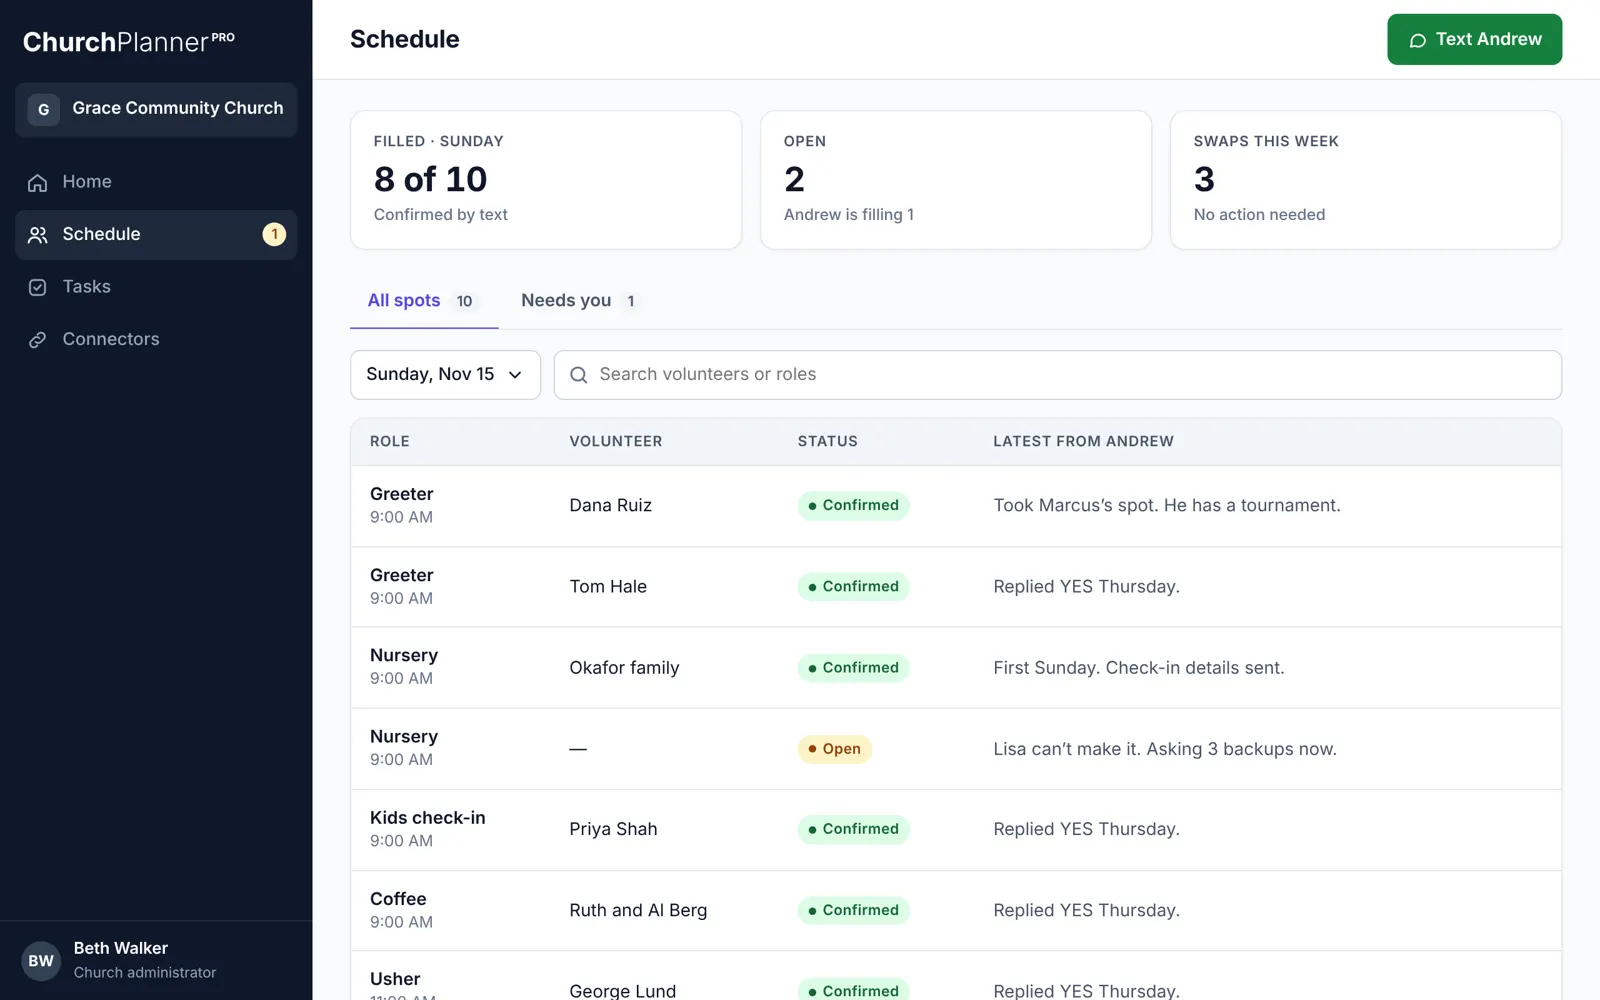
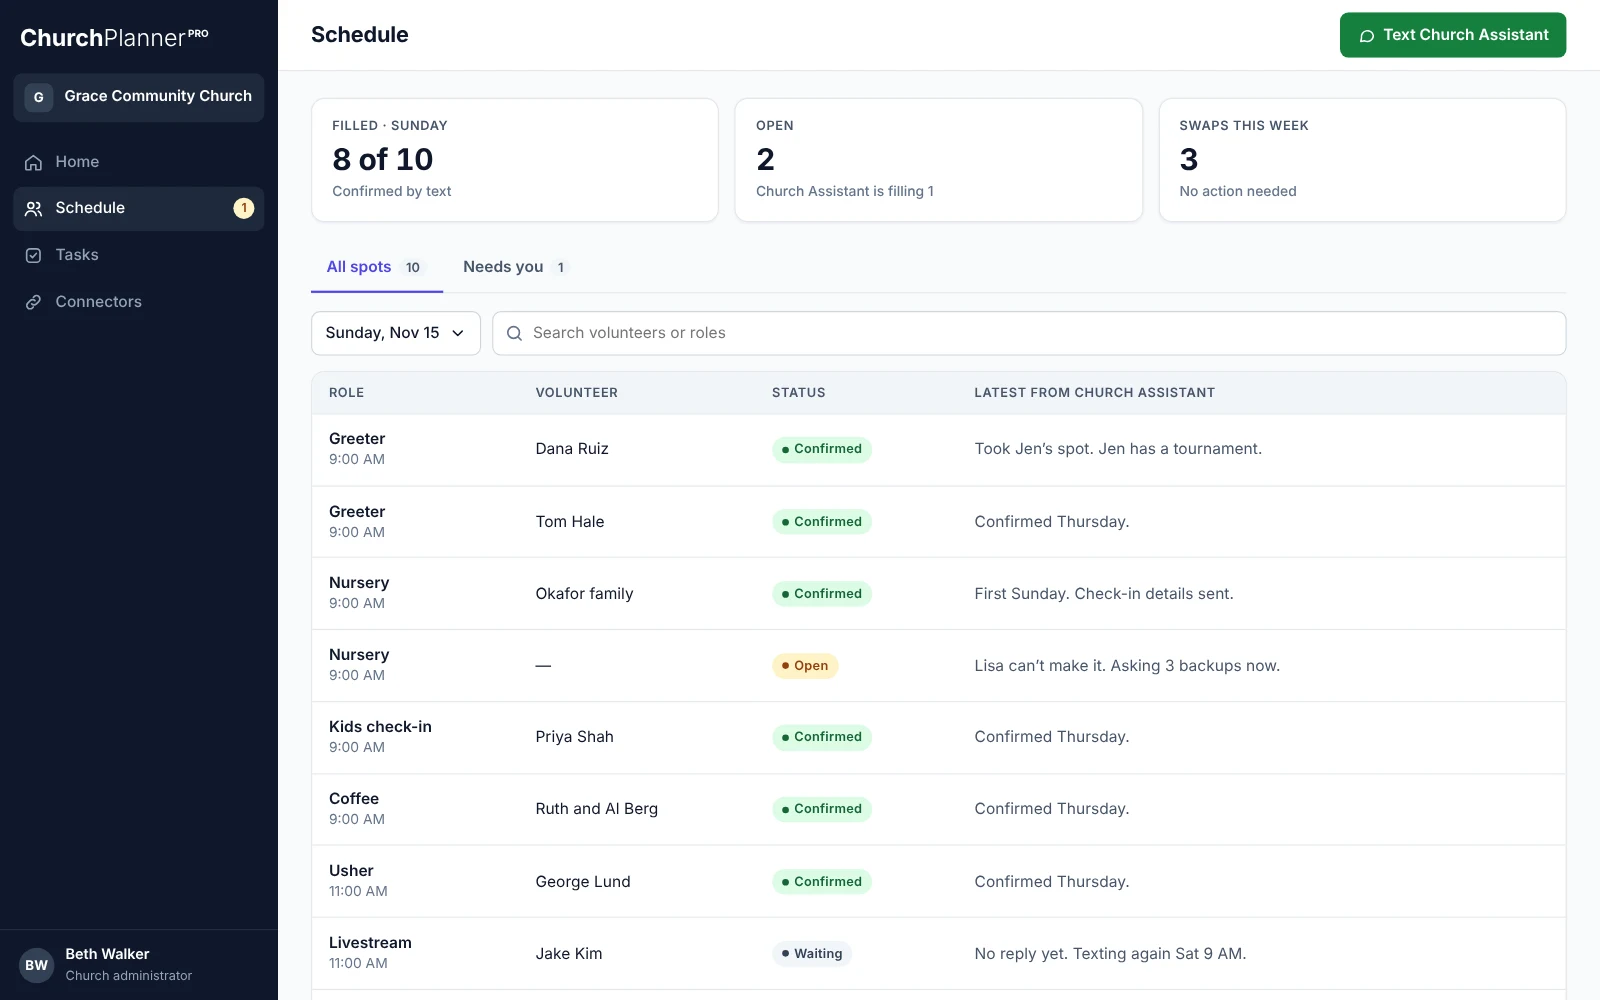
Homepage: 90-day FAQ, phone menu, updated staff view and schedule screenshot
Claude-Session: https://claude.ai/code/session_01Y7bcMnFy9nvMcdngfpeDwi

diff --git a/index.html b/index.html
@@ -12,6 +12,7 @@
 <style>
 body{margin:0;background:#faf7f2}
 a{color:#12603a}a:hover{color:#0d4a2c}
+.drawer:not([hidden]){display:flex !important}
 .cta:hover{background:#0f5231 !important}
 @media (max-width: 860px){
   .hero{grid-template-columns:1fr !important;padding-top:40px !important}
@@ -19,7 +20,11 @@ a{color:#12603a}a:hover{color:#0d4a2c}
   .three{grid-template-columns:1fr !important}
   .six{grid-template-columns:1fr !important}
   .navlinks{display:none !important}
+  .menu-btn{display:inline-flex !important}
   .foot{grid-template-columns:1fr 1fr !important}
+}
+@media (max-width: 480px){
+  header nav > a.cta{display:none !important}
 }
 </style>
 </head>
@@ -43,8 +48,29 @@ a{color:#12603a}a:hover{color:#0d4a2c}
         <a href="https://churchplannerpro.com/members/login" style="color: #5a5751; text-decoration: none">Member login</a>
       </div>
       <a class="cta" href="sms:+16515055520" data-sms style="display: inline-flex; align-items: center; min-height: 44px; padding: 0 18px; border-radius: 8px; background: #12603a; color: #ffffff; font-weight: 600; text-decoration: none; white-space: nowrap">Get started</a>
+      <button class="menu-btn" type="button" aria-label="Open menu" aria-expanded="false" aria-controls="drawer" style="display: none; width: 44px; height: 44px; align-items: center; justify-content: center; border: 1px solid #e3ddd2; border-radius: 8px; background: #ffffff; color: #0b1220; cursor: pointer"><svg width="20" height="20" viewBox="0 0 24 24" fill="none" stroke="currentColor" stroke-width="2" stroke-linecap="round" aria-hidden="true"><path d="M4 7h16M4 12h16M4 17h16"/></svg></button>
     </nav>
   </header>
+
+  <div class="drawer" id="drawer" hidden style="position: fixed; inset: 0; z-index: 50; background: #faf7f2; padding: 16px 24px 24px; flex-direction: column">
+    <div style="display: flex; justify-content: space-between; align-items: center; height: 48px; margin-bottom: 16px">
+      <span style="color: #0b1220; font-family: Outfit, Arial, sans-serif; font-weight: 300; font-size: 22px"><strong style="font-weight: 700">Church</strong>Planner</span>
+      <button class="close-btn" type="button" aria-label="Close menu" style="display: inline-flex; width: 44px; height: 44px; align-items: center; justify-content: center; border: 1px solid #e3ddd2; border-radius: 8px; background: #ffffff; color: #0b1220; cursor: pointer"><svg width="20" height="20" viewBox="0 0 24 24" fill="none" stroke="currentColor" stroke-width="2" stroke-linecap="round" aria-hidden="true"><path d="M6 6l12 12M18 6L6 18"/></svg></button>
+    </div>
+    <nav aria-label="Main" style="font-size: 22px; font-weight: 500">
+      <a href="#how" style="display: block; padding: 14px 0; color: #0b1220; text-decoration: none">How it works</a>
+      <a href="#handles" style="display: block; padding: 14px 0; color: #0b1220; text-decoration: none">What it handles</a>
+      <a href="#pricing" style="display: block; padding: 14px 0; color: #0b1220; text-decoration: none">Pricing</a>
+      <a href="#security" style="display: block; padding: 14px 0; color: #0b1220; text-decoration: none">Security</a>
+      <a href="#faq" style="display: block; padding: 14px 0; color: #0b1220; text-decoration: none">FAQ</a>
+    </nav>
+    <hr style="border: 0; border-top: 1px solid #e3ddd2; margin: 12px 0">
+    <div style="font-size: 17px">
+      <a href="prototypes/volunteer-text/app/" style="display: block; padding: 14px 0; color: #0b1220; text-decoration: none; padding: 12px 0">Staff login</a>
+      <a href="https://churchplannerpro.com/members/login" style="display: block; padding: 14px 0; color: #0b1220; text-decoration: none; padding: 12px 0">Member login</a>
+    </div>
+    <a class="cta" href="sms:+16515055520" data-sms style="margin-top: auto; display: flex; align-items: center; justify-content: center; min-height: 52px; border-radius: 10px; background: #12603a; color: #ffffff; font-size: 17px; font-weight: 600; text-decoration: none">Text Church Assistant</a>
+  </div>
 
   <section class="hero" style="max-width: 1180px; margin: 0 auto; padding: 72px 24px 80px; display: grid; grid-template-columns: minmax(0, 1.05fr) minmax(0, 1fr); gap: 64px; align-items: center">
     <div>
@@ -274,6 +300,7 @@ a{color:#12603a}a:hover{color:#0d4a2c}
       <div style="border-top: 1px solid #e3ddd2; padding: 20px 0"><h3 style="margin: 0 0 6px; color: #0b1220; font-size: 18px">Do volunteers need an app?</h3><p style="margin: 0">No. They get texts and reply, on any phone, including a flip phone.</p></div>
       <div style="border-top: 1px solid #e3ddd2; padding: 20px 0"><h3 style="margin: 0 0 6px; color: #0b1220; font-size: 18px">Will volunteers know Church Assistant is AI?</h3><p style="margin: 0">Yes. The first time Church Assistant texts a volunteer, it introduces itself as AI working for your church.</p></div>
       <div style="border-top: 1px solid #e3ddd2; padding: 20px 0"><h3 style="margin: 0 0 6px; color: #0b1220; font-size: 18px">Does anything go out without my OK?</h3><p style="margin: 0">Confirmations and reminders go out on a schedule you set up together. Anything unusual, like a sick volunteer at 7 AM, comes to you.</p></div>
+      <div style="border-top: 1px solid #e3ddd2; padding: 20px 0"><h3 style="margin: 0 0 6px; color: #0b1220; font-size: 18px">What happens after 90 days?</h3><p style="margin: 0">You start paying $9.99 a month. If you’d rather not, cancel and nothing is charged. We don’t take a card to start.</p></div>
       <div style="border-top: 1px solid #e3ddd2; border-bottom: 1px solid #e3ddd2; padding: 20px 0"><h3 style="margin: 0 0 6px; color: #0b1220; font-size: 18px">How do I stop?</h3><p style="margin: 0">Remove Church Assistant from the thread, or just tell it to stop texting you. Volunteers can do the same anytime.</p></div>
     </div>
   </section>
@@ -297,6 +324,14 @@ a{color:#12603a}a:hover{color:#0d4a2c}
   var href='sms:+16515055520?&body='+encodeURIComponent('Hi Church Assistant! I’d like help with our volunteer schedule. My code is '+code);
   document.querySelectorAll('[data-code]').forEach(function(e){e.textContent=code;});
   document.querySelectorAll('[data-sms]').forEach(function(e){e.setAttribute('href',href);});
+})();
+(function(){
+  var open=document.querySelector('.menu-btn'),drawer=document.getElementById('drawer'),close=drawer.querySelector('.close-btn');
+  function set(on){drawer.hidden=!on;open.setAttribute('aria-expanded',on?'true':'false');document.body.style.overflow=on?'hidden':'';(on?close:open).focus();}
+  open.addEventListener('click',function(){set(true);});
+  close.addEventListener('click',function(){set(false);});
+  drawer.addEventListener('click',function(e){if(e.target.closest('a'))set(false);});
+  document.addEventListener('keydown',function(e){if(e.key==='Escape'&&!drawer.hidden)set(false);});
 })();
 </script>
 </body>

diff --git a/prototypes/volunteer-text/app/schedule.html b/prototypes/volunteer-text/app/schedule.html
@@ -37,13 +37,13 @@
 <div class="tblw"><table>
 <thead><tr><th>Role</th><th>Volunteer</th><th>Status</th><th>Latest from Church Assistant</th></tr></thead>
 <tbody>
-<tr data-show="all"><td><strong style="font-weight:600">Greeter</strong><span class="sub">9:00 AM</span></td><td>Dana Ruiz</td><td><span class="badge b-live">Confirmed</span></td><td class="note">Took Marcus’s spot. He has a tournament.</td></tr>
-<tr data-show="all"><td><strong style="font-weight:600">Greeter</strong><span class="sub">9:00 AM</span></td><td>Tom Hale</td><td><span class="badge b-live">Confirmed</span></td><td class="note">Replied YES Thursday.</td></tr>
+<tr data-show="all"><td><strong style="font-weight:600">Greeter</strong><span class="sub">9:00 AM</span></td><td>Dana Ruiz</td><td><span class="badge b-live">Confirmed</span></td><td class="note">Took Jen’s spot. Jen has a tournament.</td></tr>
+<tr data-show="all"><td><strong style="font-weight:600">Greeter</strong><span class="sub">9:00 AM</span></td><td>Tom Hale</td><td><span class="badge b-live">Confirmed</span></td><td class="note">Confirmed Thursday.</td></tr>
 <tr data-show="all"><td><strong style="font-weight:600">Nursery</strong><span class="sub">9:00 AM</span></td><td>Okafor family</td><td><span class="badge b-live">Confirmed</span></td><td class="note">First Sunday. Check-in details sent.</td></tr>
 <tr data-show="all"><td><strong style="font-weight:600">Nursery</strong><span class="sub">9:00 AM</span></td><td>—</td><td><span class="badge b-attn">Open</span></td><td class="note">Lisa can’t make it. Asking 3 backups now.</td></tr>
-<tr data-show="all"><td><strong style="font-weight:600">Kids check-in</strong><span class="sub">9:00 AM</span></td><td>Priya Shah</td><td><span class="badge b-live">Confirmed</span></td><td class="note">Replied YES Thursday.</td></tr>
-<tr data-show="all"><td><strong style="font-weight:600">Coffee</strong><span class="sub">9:00 AM</span></td><td>Ruth and Al Berg</td><td><span class="badge b-live">Confirmed</span></td><td class="note">Replied YES Thursday.</td></tr>
-<tr data-show="all"><td><strong style="font-weight:600">Usher</strong><span class="sub">11:00 AM</span></td><td>George Lund</td><td><span class="badge b-live">Confirmed</span></td><td class="note">Replied YES Thursday.</td></tr>
+<tr data-show="all"><td><strong style="font-weight:600">Kids check-in</strong><span class="sub">9:00 AM</span></td><td>Priya Shah</td><td><span class="badge b-live">Confirmed</span></td><td class="note">Confirmed Thursday.</td></tr>
+<tr data-show="all"><td><strong style="font-weight:600">Coffee</strong><span class="sub">9:00 AM</span></td><td>Ruth and Al Berg</td><td><span class="badge b-live">Confirmed</span></td><td class="note">Confirmed Thursday.</td></tr>
+<tr data-show="all"><td><strong style="font-weight:600">Usher</strong><span class="sub">11:00 AM</span></td><td>George Lund</td><td><span class="badge b-live">Confirmed</span></td><td class="note">Confirmed Thursday.</td></tr>
 <tr data-show="all"><td><strong style="font-weight:600">Livestream</strong><span class="sub">11:00 AM</span></td><td>Jake Kim</td><td><span class="badge b-draft">Waiting</span></td><td class="note">No reply yet. Texting again Sat 9 AM.</td></tr>
 <tr data-show="all needs"><td><strong style="font-weight:600">Sound booth</strong><span class="sub">11:00 AM</span></td><td>—</td><td><span class="badge b-stop">Needs you</span></td><td class="note">All backups said no. Ask the youth group parents?</td></tr>
 <tr data-show="all"><td><strong style="font-weight:600">Greeter</strong><span class="sub">11:00 AM</span></td><td>Sam Ortiz</td><td><span class="badge b-live">Confirmed</span></td><td class="note">Swapped from Dec 6. Moved automatically.</td></tr>

diff --git a/prototypes/volunteer-text/app/tasks.html b/prototypes/volunteer-text/app/tasks.html
@@ -29,7 +29,7 @@
 <div data-show="weekly"><div class="tblw"><table>
 <thead><tr><th>Task</th><th>Status</th><th>Cadence</th><th>Next run</th><th>What it does</th></tr></thead>
 <tbody>
-<tr><td><strong style="font-weight:600">Confirm Sunday volunteers</strong></td><td><span class="badge b-live">Active</span></td><td>Weekly · Thu 10:00 AM</td><td>Nov 19</td><td class="note">Texts everyone on the schedule. They reply YES or SWAP.</td></tr>
+<tr><td><strong style="font-weight:600">Confirm Sunday volunteers</strong></td><td><span class="badge b-live">Active</span></td><td>Weekly · Thu 10:00 AM</td><td>Nov 19</td><td class="note">Texts everyone on the schedule. They reply in their own words.</td></tr>
 <tr><td><strong style="font-weight:600">Fill open spots</strong></td><td><span class="badge b-ai">Running</span></td><td>As needed</td><td>Now</td><td class="note">Asks backups in order until someone says yes. Texts you only if nobody can.</td></tr>
 <tr><td><strong style="font-weight:600">Saturday reminders</strong></td><td><span class="badge b-live">Active</span></td><td>Weekly · Sat 5:00 PM</td><td>Tomorrow</td><td class="note">Time, role and where to check in.</td></tr>
 <tr><td><strong style="font-weight:600">Sunday morning summary</strong></td><td><span class="badge b-live">Active</span></td><td>Weekly · Sun 7:00 AM</td><td>Nov 15</td><td class="note">One text to staff: who’s serving and any gaps.</td></tr>

diff --git a/prototypes/volunteer-text/app/index.html b/prototypes/volunteer-text/app/index.html
@@ -56,8 +56,8 @@
 <section class="card card-pad">
 <div class="card-h"><h2>What Church Assistant did this week</h2></div>
 <ul style="list-style:none;margin:0;padding:0;display:flex;flex-direction:column;gap:12px;font-size:14px">
-<li><div>Marcus swapped out of greeter. Dana said yes in 6 minutes.</div><div class="muted" style="font-size:12.5px">Thu 10:14 AM</div></li>
-<li><div>Confirmations sent to 10 volunteers. 8 replied YES.</div><div class="muted" style="font-size:12.5px">Thu 10:00 AM</div></li>
+<li><div>Jen couldn’t make greeter. Dana said yes in 6 minutes.</div><div class="muted" style="font-size:12.5px">Thu 10:14 AM</div></li>
+<li><div>Confirmations sent to 10 volunteers. 8 confirmed.</div><div class="muted" style="font-size:12.5px">Thu 10:00 AM</div></li>
 <li><div>Added the Okafor family to the nursery rotation from your text.</div><div class="muted" style="font-size:12.5px">Mon 4:32 PM</div></li>
 <li><div>Next: Saturday reminders at 5:00 PM.</div><div class="muted" style="font-size:12.5px">Tomorrow</div></li>
 </ul>
